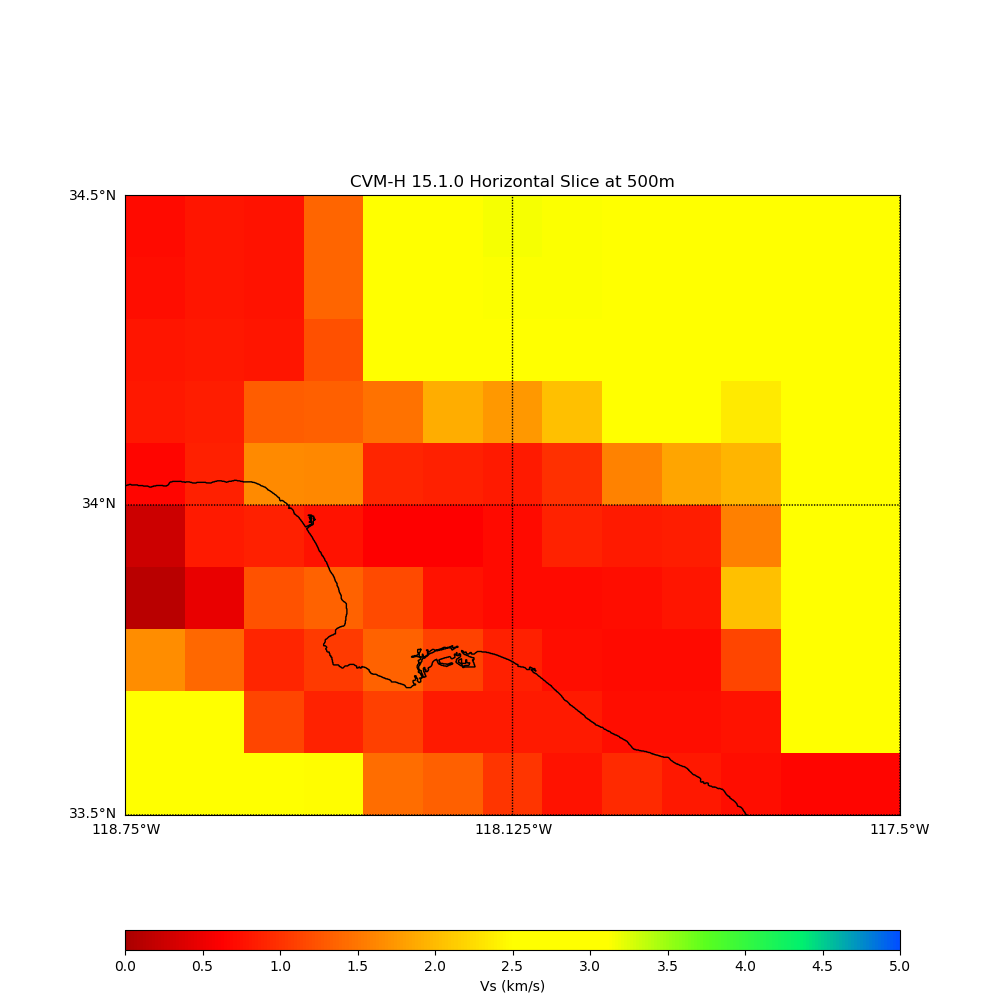
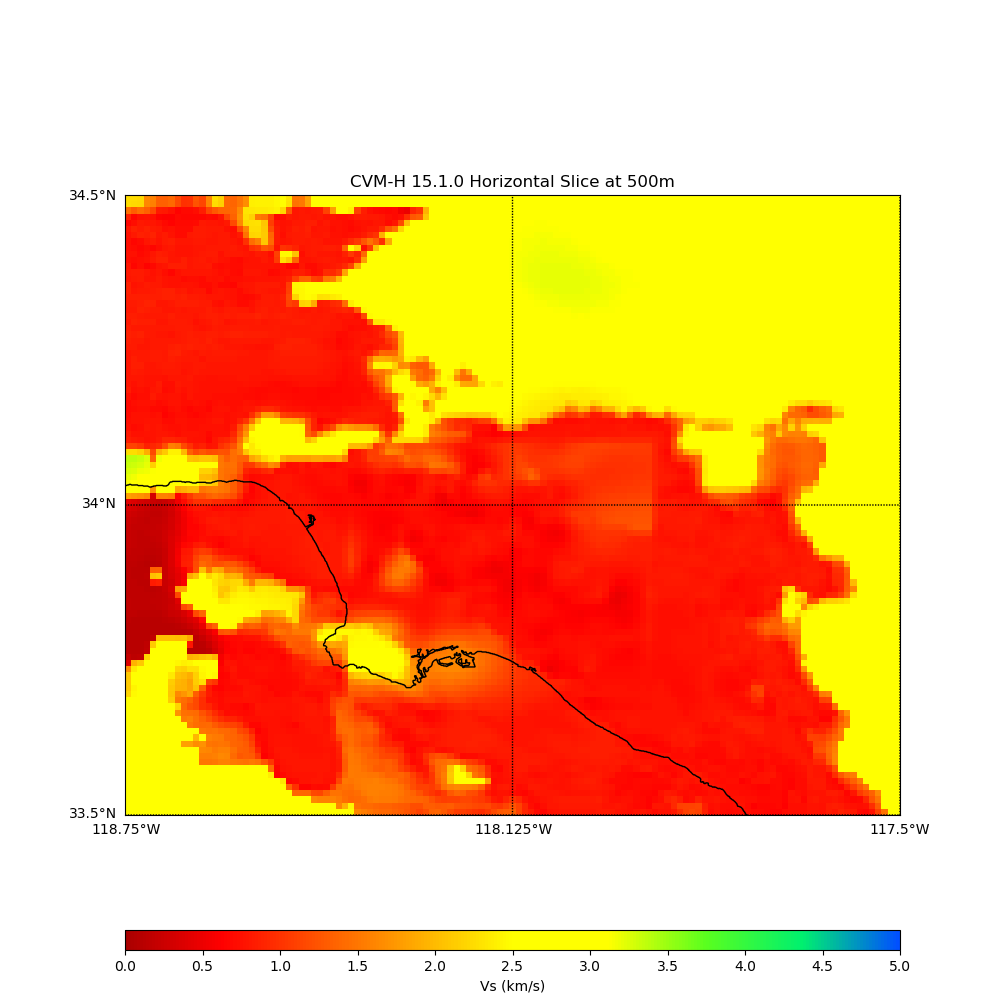
new plots

Changed region(s): [[0.124, 0.186, 0.899, 0.837], [0.589, 0.744, 0.682, 0.837], [0.682, 0.806, 0.713, 0.837]]

diff --git a/utilities/pycvm/pycvm/horizontal_slice.py b/utilities/pycvm/pycvm/horizontal_slice.py
@@ -257,7 +257,8 @@ class HorizontalSlice:
         elif color_scale == 'dd':
             BOUNDS= u.makebounds(newmin_val, newmax_val, 5, newmean_val, substep=5,all=True)
             TICKS = u.maketicks(newmin_val, newmax_val, 5)
-            colormap = pycvm_cmapDiscretize(basemap.cm.GMT_globe, len(BOUNDS) - 1)
+            colormap = pycvm_cmapDiscretize(basemap.cm.GMT_seis, len(BOUNDS) - 1)
+#            colormap = pycvm_cmapDiscretize(basemap.cm.GMT_globe, len(BOUNDS) - 1)
             norm = mcolors.BoundaryNorm(BOUNDS, colormap.N)
         else:
             print "ERROR: unknown option for colorscale."
